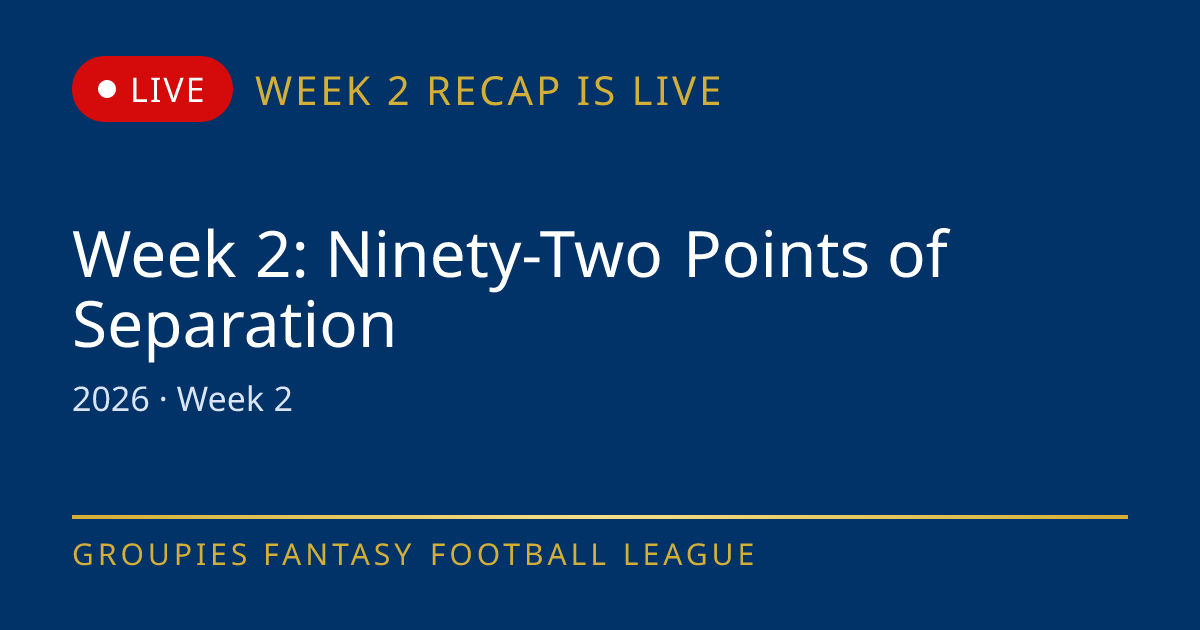
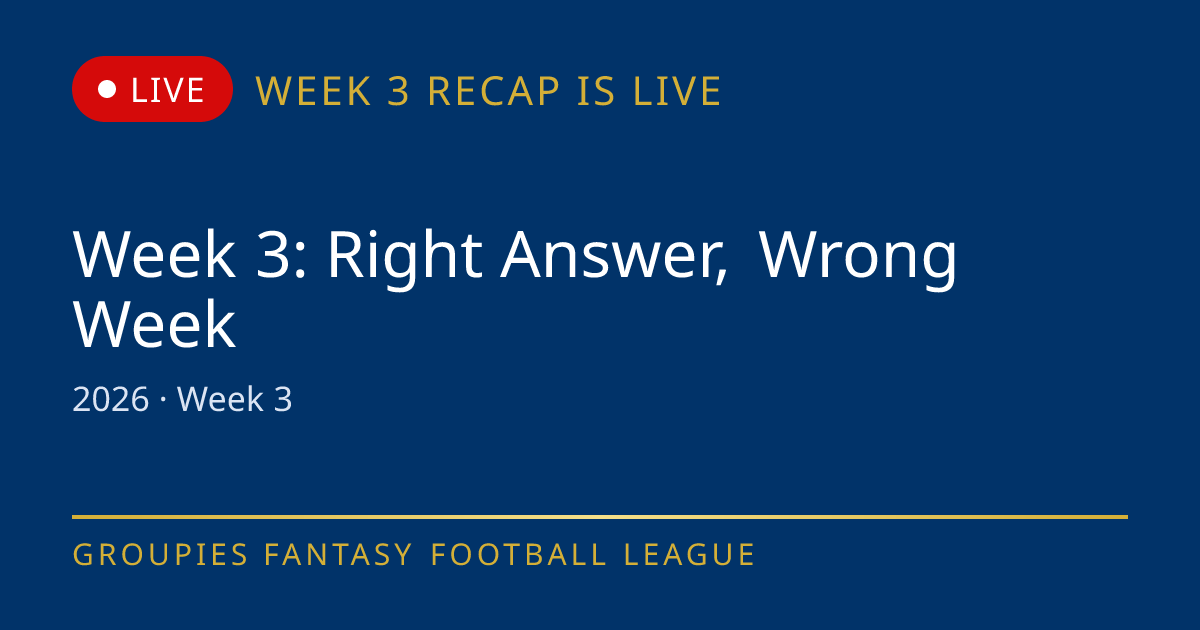
Week 3 recap, and a recap guide
Game by game in the original blog's voice, about 1,900 words, with the
NFL context behind each boom and bust (Achane's first-quarter ACL, the
Keenum game, Bo Nix's game-winner from the bench) drawn from the auction
repo's game_stories.py. The two bench decisions that flipped results
are called out as such. RECAP_GUIDE.md documents the sources, the shape
and the anti-repetition rules.

Claude-Session: https://claude.ai/code/session_01UKx2A5CdAL8tzxN34pu9sP

diff --git a/src/data/recaps/2026-week-03.md b/src/data/recaps/2026-week-03.md
@@ -1,0 +1,74 @@
+---
+title: "Week 3: Right Answer, Wrong Week"
+season: 2026
+week: 3
+date: 2026-09-29
+---
+
+*"Insanity is doing the same thing over and over and expecting different results." — often attributed to Einstein, who never had to choose between Bo Nix and Tyler Shough*
+
+Welcome back one and all to the third weekly installment of the GFFL Recap! Week 3 was the week the bench struck back: two games were decided by points sitting in street clothes, one team finally made the right quarterback call and still got outscored by its own bench, and Darty in the Hamptons changed its name to Smushed Hopes, which after the week they had feels less like a rebrand and more like a status update. Two teams are still unbeaten, one is still winless, and the league's first real NFL injury bills came due. Let's get to the games.
+
+## The Fellowship of the Ringless 161.56 — (Traded my) Pick 6 98.32
+
+The Fellowship is 3-0, leads the league in points by a lot, and this week didn't even need its quarterback. Jahmyr Gibbs, the first overall pick, went for **37.9**: two rushing touchdowns and the game-winning catch with 2:30 left in Detroit after the Jets had tied it up. Kittle added 23.2 with two late scores in San Francisco, and Garrett Wilson put up 21.7 on a 10-catch day before getting hurt on the Jets' final drive. Keep an eye on that one. Josh Allen had a strange 16.96: two rushing touchdowns wrapped around two interceptions, in a game where the Bills gave the ball away five times and still won. Jared Goff scored 19.36 on the bench, but with only one QB spot, that's a luxury, not a crime.
+
+Pick 6 is 0-3, and the problem is at the top of the draft. **Saquon Barkley, seventh overall, 8.5 points**, in a game where the Eagles scored seven and lost by 20 to a Bears team starting a 38-year-old backup. Jalen Hurts (12.62) left briefly in the second quarter and never got going. Jakobi Meyers caught a touchdown from Trevor Lawrence and scored 15.9 on the bench, while Brian Thomas Jr. started in the flex and scored 1.3: a 14.6-point decision in a game lost by 63, so it's filed rather than prosecuted. Terry McLaurin (16.7, a Mariota touchdown) and Tee Higgins (18) were fine. The kicker was not the MVP this week, which counts as progress.
+
+## Remix to Commission 140.88 — Chug City 85.34
+
+Your commissioner and recapper, 3-0, presenting with total objectivity: another comfortable one. Brock Purdy — ninth round — threw four touchdowns and scored 31.28. Drake London, whom I publicly scolded last week, caught nine balls for 194 yards and scored 23.9, and I'd like to thank him for reading the column. Kenneth Walker scored twice in Miami (20.3), James Cook ran for 154 yards (19.4), and my waiver-wire kicker Tyler Loop hit a 56-yarder at the gun in Rio for 12 points. It wasn't all clean: Juwan Johnson caught two touchdowns and scored 19.3 on my bench while Dalton Kincaid started at tight end and scored 2.8. That's a 16.5-point mistake by the commissioner, and the commissioner will be hearing from himself.
+
+Chug City's 85.34 was the lowest score of the week, and the reason is on the bench. **Jaylen Warren ran for 127 yards and scored 19.1 on the bench**, while Jadarian Price, a third-round pick, started at running back and scored 0.7. That's an 18.4-point swing, and it's the second straight week Price has disappointed on a start. Jonathan Taylor (#3 overall) managed 8.2 in a 19–17 Colts win that was mostly field goals. The kicker spot didn't help either: Trey Smack started and scored one point for a Packers team that scored 14, while Cameron Dicker made three field goals for 9 on the bench. Dak (18.94) and Olave (15.2) did their jobs. The rest is under review.
+
+## Kim Kardashian Boutte 123.24 — Smushed Hopes 103.96
+
+Kim K Boutte moves to 2-1 on the back of a very good draft pick. Brock Bowers made his season debut in New Orleans and scored **22.6** on 10 catches for 116 yards and a touchdown, in a comeback win from 11 down. Lamar Jackson (20.44) threw the touchdown that put the Ravens ahead late in Rio and then the 27-yard throw that set up the walk-off field goal. Ja'Marr Chase (20.3) caught a touchdown in Pittsburgh. Keaton Mitchell scored a touchdown for 12.2 on the bench while TreVeyon Henderson started for 3.4, but at a 19-point margin, it didn't matter.
+
+Smushed Hopes — formerly Darty in the Hamptons — has the league's hottest receiver and not much else. Jaxon Smith-Njigba followed last week's 38 with **30.36**: 10 catches, 128 yards, two touchdowns, in a Seahawks loss to a Mariota-led Washington. Matthew Stafford (20.9) threw for 390 yards, but he also threw the pick-six that turned the Rams-Broncos game. Omarion Hampton, the eighth overall pick, managed 5.6 against Buffalo. Emanuel Wilson started in the flex for 1.4 while Brian Robinson Jr. (11.0, a touchdown for Atlanta) and Rachaad White (10.6) sat on the bench. That's about 10 points of bench, in a loss by 19. The new name is accurate.
+
+## Thats My Commish Do Ya Know Him 98.74 — Darn Tuten 91.24
+
+The closest game of the week, and it was decided on Darn Tuten's bench. Michael Wilson caught 11 passes and a touchdown for Arizona and **scored 20.4 on the bench**, while Jalen Coker started in the flex and scored 2.8. That's a 17.6-point swing in a game lost by 7.5. Start Wilson and Darn Tuten is 3-0. They're 2-1 instead, third in the league in points, and the owner has to live with it. Keenan Allen (15.3) was also on the bench. Amon-Ra St. Brown managed 9.9, and the Patriots defense (the waiver add that scored 20 last week) gave up 35 in Jacksonville and scored zero.
+
+Thats My Commish moves to 2-1, and Harold Fannin Jr. deserves the credit: a sixth-round tight end who caught two touchdowns from Deshaun Watson, including the game-winner in Cleveland with 1:55 left, for 20.6 points. Jeremiyah Love (19.4) and Davante Adams (17.2, 137 yards in the Rams' loss) helped, and Justin Herbert scored 12.74 in a game where he threw an interception at the Buffalo 1-yard line. They won despite a lot of bench points too: Kenyon Sadiq scored 20.0 on the bench and Jordan Addison caught a 41-yard touchdown for 17.5 on the bench, while Justin Jefferson (#11 overall) managed 4.2 and Tetairoa McMillan (third round) 2.7 in the lineup. When you win with 37.5 points on the bench, the column notes it and moves on.
+
+## The Charleston Kirks 99.26 — Man Getting Hit By Football 96.58
+
+The Kirks finally win one, by 2.68, and it cost them their first-round pick. **De'Von Achane, ninth overall, scored 1.7 and tore his ACL in the first quarter in Miami.** He's out for the season. That's the worst news any team in this league got this week, and it happened in a win. Derrick Henry scored twice in Rio (21.4), the Vikings defense had six sacks and a punt-return touchdown for 19 points, and the Kirks held on. Drake Maye (3.76) was benched in the fourth quarter of a 35–6 loss, and Wan'Dale Robinson scored 15.2 on the bench while Xavier Worthy started for 3.0. That one didn't matter this week. Next week it might.
+
+Man Getting Hit By Football lost by 2.68, and **Cooper Kupp scored 12.6 on the bench, including a late touchdown in Washington**, while Malik Nabers (5.1) and Stefon Diggs (5.3) started. Kupp over Nabers is 7.5 points, which would have won the game. Joe Burrow scored 22.58 before his strip-sack in the final minute in Pittsburgh. CMC added 19.6 and Deebo Samuel 15.4, including an 80-yard catch-and-run on a lateral from Mike Evans. Then there's the defense: the Eagles D/ST scored **negative one**, allowing 27 points to a team starting Case Keenum. In a game lost by 2.68, that stings.
+
+## Immaculate Concepcion 123.20 — Whistlin' Willy's 100.64
+
+A follow-up on the league's longest-running story. For two weeks, Immaculate Concepcion started Bo Nix over Tyler Shough and lost both times while Shough outscored Nix on the bench. This week they started Shough. He threw four touchdowns in a Saints loss and scored 23.8. Bo Nix, on the bench, led Denver back from 16–0 down, ran in the game-winner with 48 seconds left, and scored **24.14**. That's 0.34 points. After two weeks of wrong answers, the right answer came one week too late. The good news is it didn't cost them anything: Bijan Robinson ran for 194 yards and two touchdowns (34.3) in Atlanta's win at Lambeau, Luther Burden caught a touchdown from Keenum (16.3), Harrison Mevis kicked four field goals for 16, and Immaculate Concepcion won its first game of the season. The file on Nix-vs-Shough stays open.
+
+Whistlin' Willy's did learn from last week: Patrick Mahomes, the waiver pickup who sat on the bench for 29 points, started this week and scored 15.94 in a win in Miami. The Williams backfield (Kyren 18.8, Javonte 17.3) did well, and Chris Boswell kicked the tying and go-ahead field goals in Pittsburgh for 13. The receivers didn't show up: Jaylen Waddle 5.4, Chris Godwin 4.0, Tucker Kraft 4.6, Ladd McConkey 8.6. Caleb Williams scored zero on the bench, where he watched a 38-year-old backup take his job for a week and beat the Eagles by 20.
+
+## Superlatives
+
+**Highest Scoring Team:** The Fellowship of the Ringless (161.56) — 468.74 on the season, 45 points clear of anyone else.
+
+**Lowest Scoring Team:** Chug City (85.34) — with 19.1 points of Jaylen Warren on the bench.
+
+**Highest Scoring Player:** Jahmyr Gibbs, 37.9 (The Fellowship of the Ringless) — three touchdowns, including the game-winner in the final three minutes.
+
+**Bench Crime of the Week:** Michael Wilson, 20.4 on the bench (Darn Tuten), behind a 2.8 in the flex, in a loss by 7.5. The only bench decision this week that flipped a result by itself... except for:
+
+**Bench Crime, 1B:** Cooper Kupp, 12.6 on the bench (Man Getting Hit By Football), behind a 5.1 in the flex, in a loss by 2.68.
+
+**The Right Answer, Wrong Week Award:** Immaculate Concepcion — started Shough over Nix for the first time, and Nix outscored him by 0.34.
+
+**Worst News of the Week:** De'Von Achane, torn ACL, out for the season (The Charleston Kirks) — the ninth overall pick, gone in the first quarter of a game his team won.
+
+**Name Change of the Week:** Darty in the Hamptons → Smushed Hopes. It's accurate.
+
+## Standings
+
+Unbeaten at 3-0: **The Fellowship of the Ringless** and **Remix to Commission**, and it's not close in points either. At 2-1: Kim Kardashian Boutte, Thats My Commish Do Ya Know Him, and Darn Tuten, who should be 3-0. At 1-2: Smushed Hopes, The Charleston Kirks, Man Getting Hit By Football, Whistlin' Willy's, Immaculate Concepcion and Chug City. Winless at 0-3: (Traded my) Pick 6, whose seventh overall pick has 11 points over the last two weeks.
+
+---
+
+Well, that will do it for me this week. Two games decided on the bench, one quarterback controversy resolved in the most painful way possible, and one season-ending injury. I hope you enjoyed reading this as much as I enjoyed writing it, and I enjoyed writing it a lot, because I'm 3-0.
+
+*Message From the Commissioner: "The commissioner's office has reviewed the recapper's decision to bench Juwan Johnson and has found the recapper to be a fraud."*

diff --git a/RECAP_GUIDE.md b/RECAP_GUIDE.md
@@ -1,0 +1,55 @@
+# Writing the weekly GFFL Recap
+
+Game-by-game, in the voice of the original Groupies blog (2019–2024; the
+archive lives in the auction repo at `nfl_auction/data/blog/posts.json`).
+Published Tuesday after Monday Night Football once the daily refresh has
+recorded the week as final (dispatch `update-data.yml` if it hasn't run).
+
+## 1. Facts
+
+- **Lineups, scores, bench**: `src/data/starters.json` (week rows appear only
+  once every matchup is final), `schedule.json`, `drafts.json` (round,
+  overall, keeper). Franchise names come from the *latest* data, so compare
+  against last week's recap to catch renames. They make good material.
+- **Why a player boomed or busted**: `python3 ../nfl_auction/scripts/game_stories.py
+  --season <S> --week <W>` prints every NFL game's score path, win-probability
+  swings, outlier lines, QB stints and the week's RotoWire injury news. A
+  2.5-point first-rounder reads very differently when his team scored 7, or
+  when he left in the first quarter with a torn ACL.
+- **Projections**: after the fact, ESPN often reports a player's projection
+  as his final score. Quote a projection only when it clearly differs from
+  the final.
+
+## 2. Shape
+
+```
+*epigraph (a new one every week)*
+Intro: 3–5 sentences, the week's theme. No re-explaining the bench or draft-capital rules.
+
+## Winner score — Loser score        (one per matchup, most interesting first)
+Winner paragraph, then loser paragraph. How the game went (close? decided
+Monday night? decided on a bench?), the studs with the NFL context behind
+them, the busts with the reason, and bench decisions only when they matter
+(eligible swaps only; say when a swap would have flipped the result).
+
+## Superlatives
+**Award:** ... — keep Highest/Lowest Scoring Team and Highest Scoring Player;
+invent the rest from the week.
+
+## Standings
+---
+Sign-off. *Message From the Commissioner: "one or two lines."*
+```
+
+About 1,500–2,000 words. The original ran about 1,300.
+
+## 3. Voice and freshness
+
+- Tell the matchup's story: close, lopsided, decided on Monday night, decided on a bench.
+- Give fantasy scores their NFL cause (injury, backup QB, blowout script,
+  garbage time, a walk-off field goal).
+- Keep running storylines alive (a repeat bench mistake, a team rename, a
+  scolded player's response), but don't reuse the same *jokes* or phrases.
+  Grep the last two recaps before publishing ("the log", "roast", "editorial
+  policy" were overused in weeks 1–2).
+- The recapper is also a manager. Self-deprecation beats gloating.
